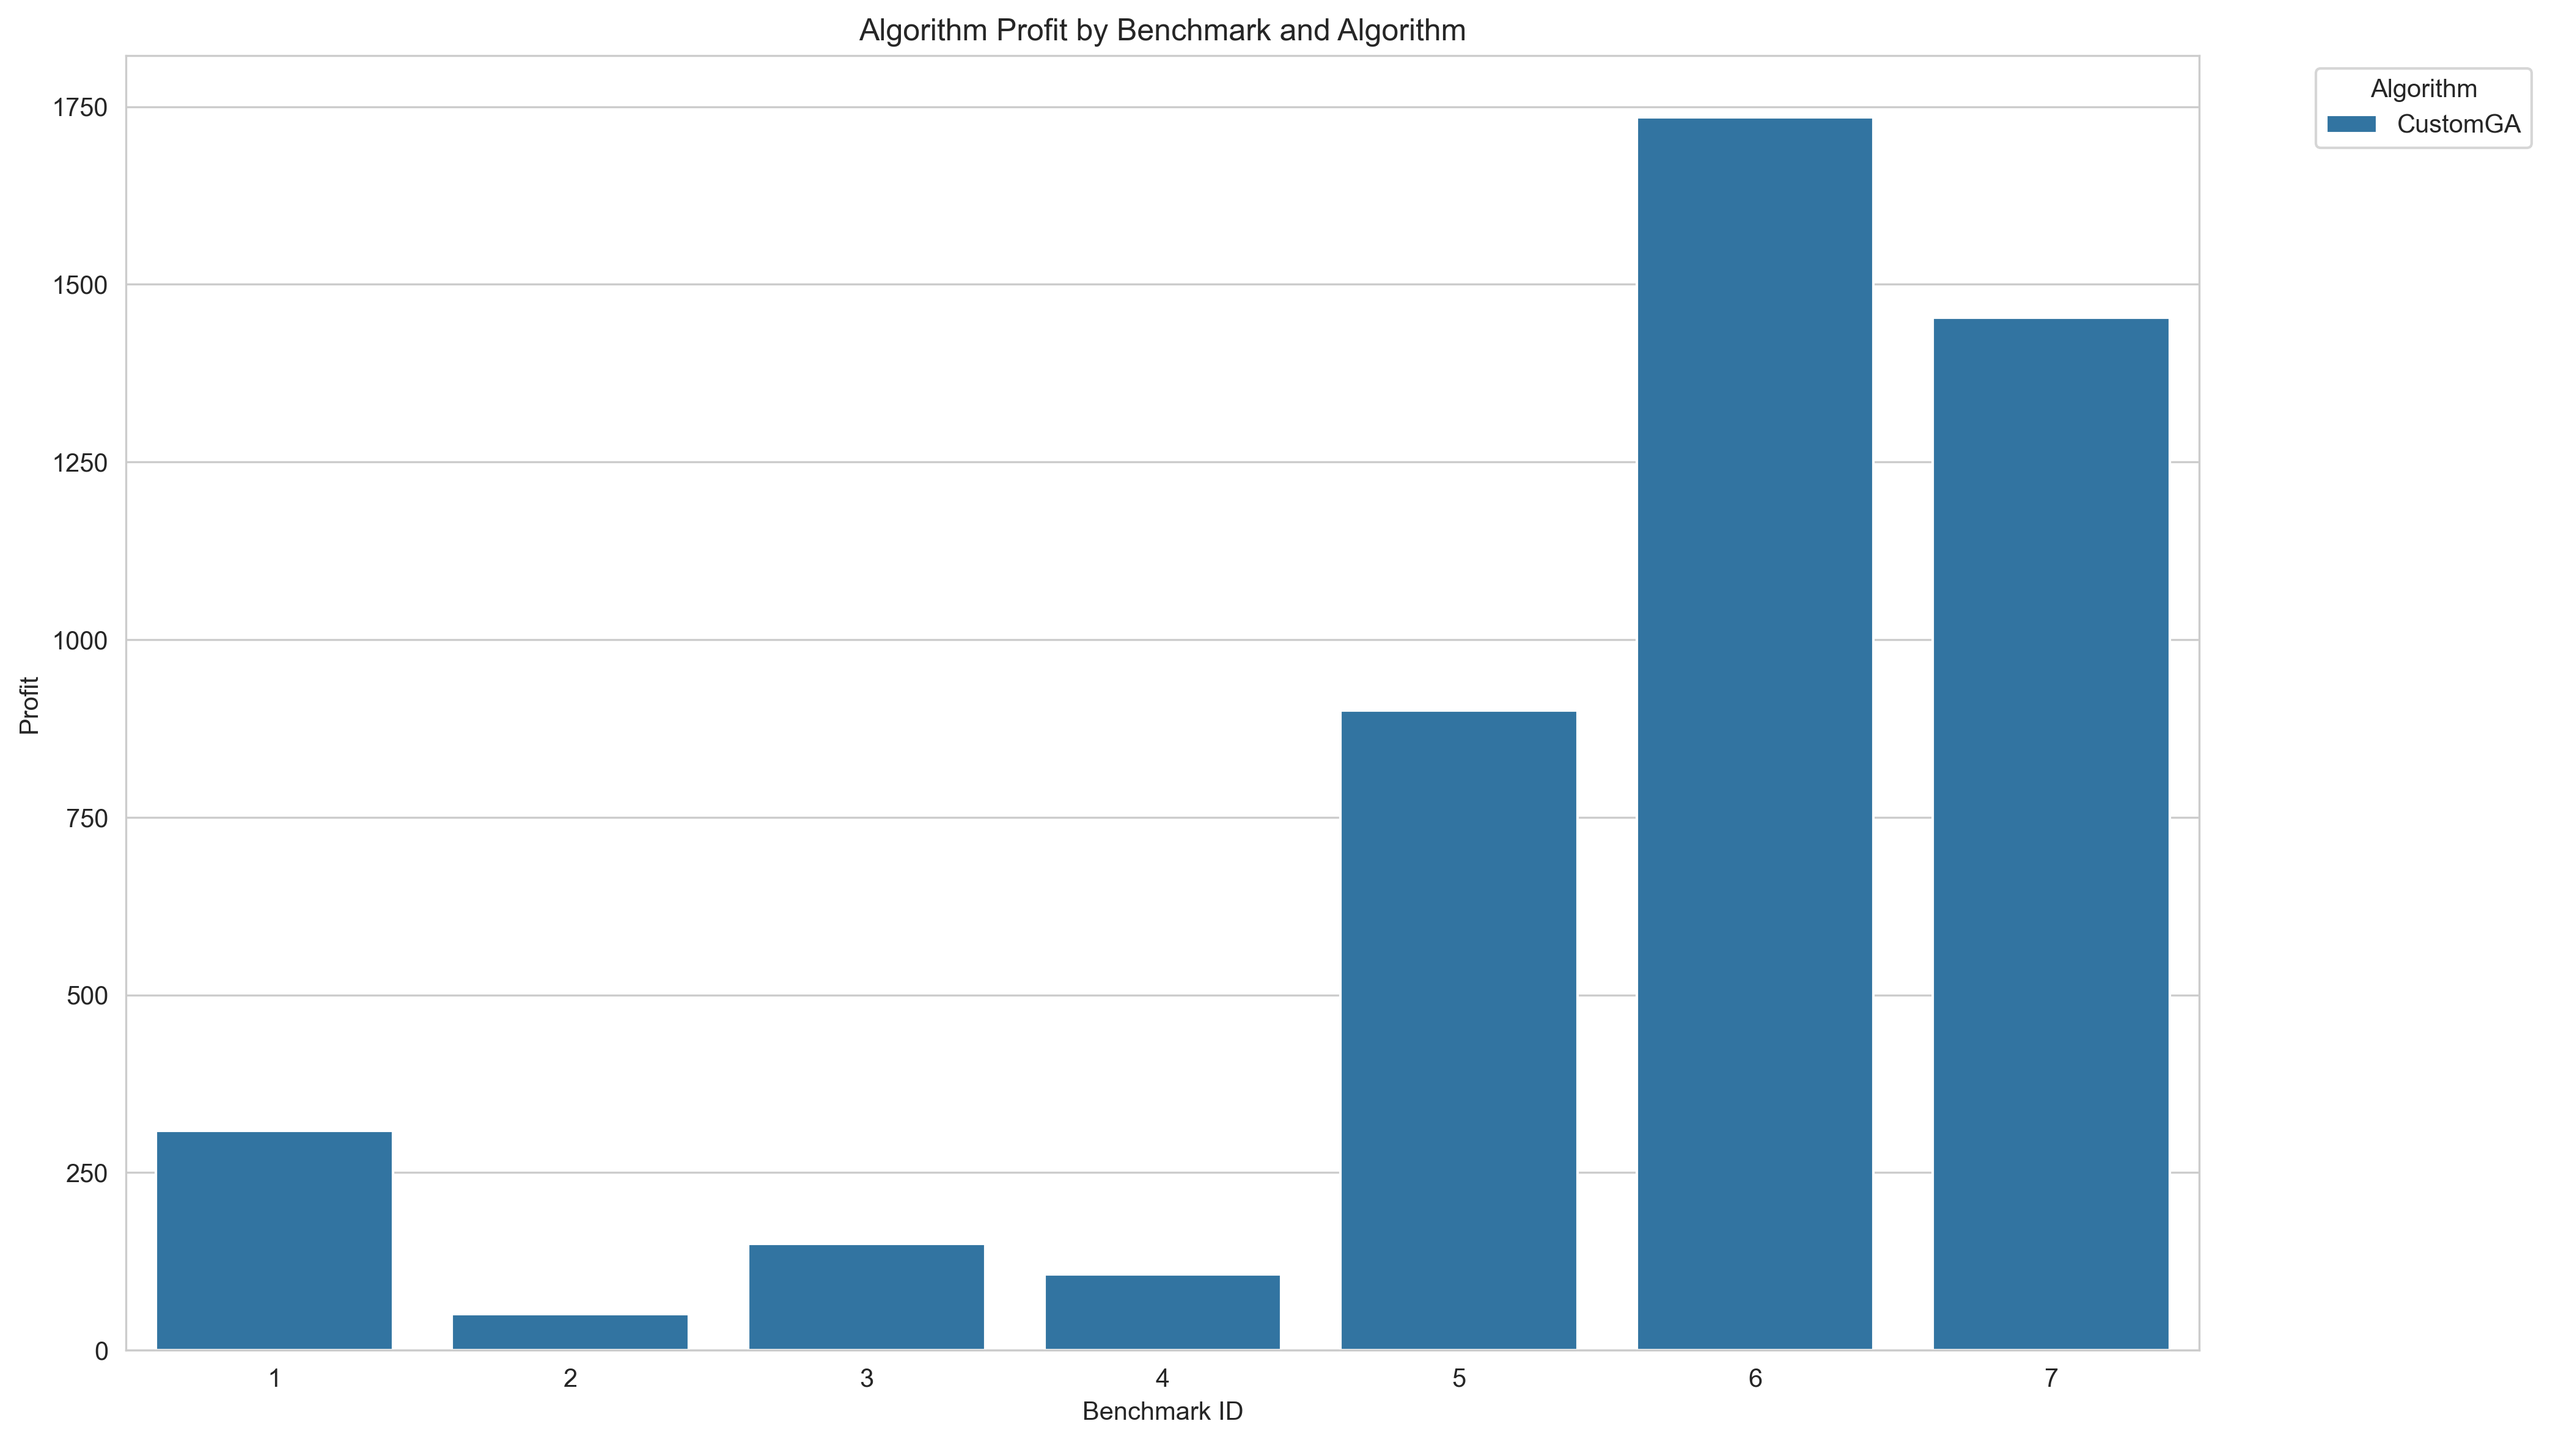
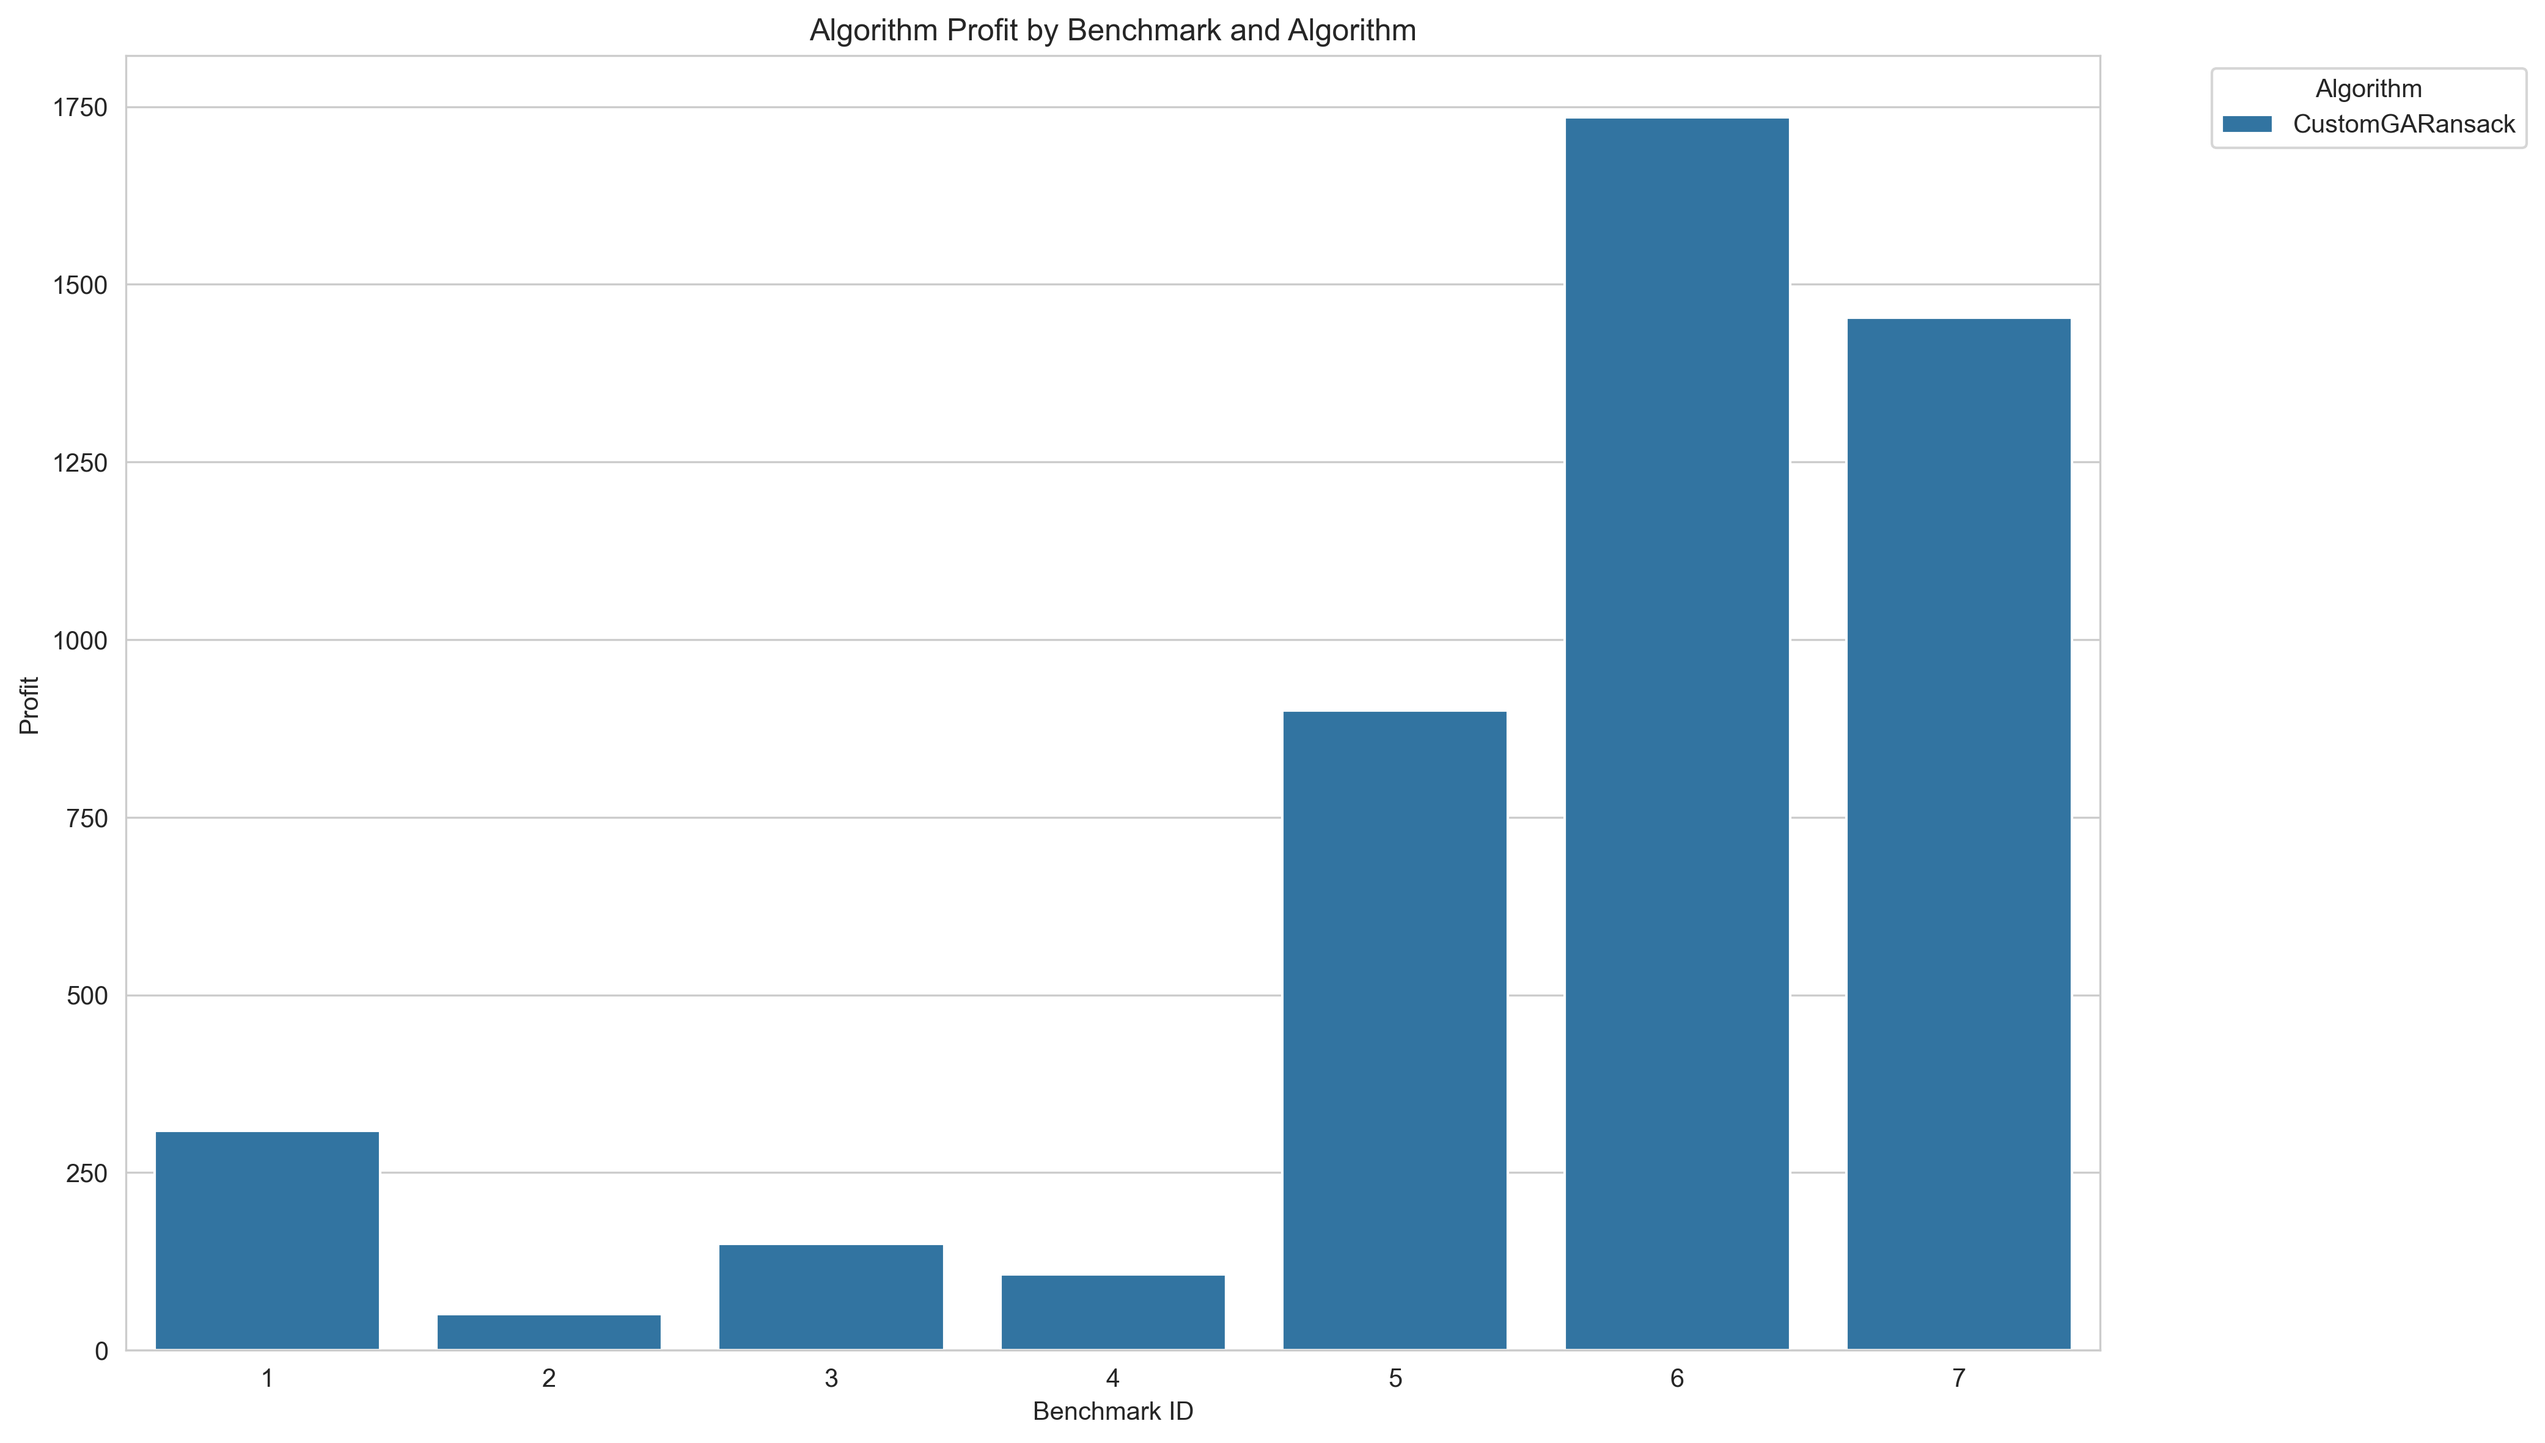
some refactoring

diff --git a/src/algorithms.py b/src/algorithms.py
@@ -1,5 +1,4 @@
 from functools import wraps
-from itertools import combinations
 import os
 from time import time
 import random
@@ -81,14 +80,13 @@ class GeneticAlgorithm(Algorithm):
         return population
 
     def fitness(self, individual: List[int]) -> float:
-        """Функция приспособленности - суммарная ценность предметов"""
+        """Функция приспособленности"""
         total_weight = self.get_total_weight(individual)
         total_value = self.get_total_value(individual)
 
         if total_weight <= self.capacity:
-            return total_value  # Допустимое решение
+            return total_value
         else:
-            # Штрафуем, но не обнуляем (линейный штраф)
             penalty = (total_weight - self.capacity) / self.capacity
             return max(0.0, total_value * (1 - penalty))
 
@@ -129,16 +127,12 @@ class GeneticAlgorithm(Algorithm):
     def evolve(self, population: List[List[int]]) -> List[List[int]]:
         """Создает новое поколение"""
         new_population = []
-
-        # Элитизм - сохраняем лучшую особь
         if self.elitism:
             best_individual = max(population, key=lambda ind: self.fitness(ind))
             new_population.append(best_individual.copy())
             start_index = 1
         else:
             start_index = 0
-
-        # Заполняем новую популяцию
         for i in range(start_index, self.population_size, 2):
             parent1 = self.tournament_selection(population)
             parent2 = self.tournament_selection(population)
@@ -158,7 +152,7 @@ class GeneticAlgorithm(Algorithm):
         population = self.initialize_population()
         best_fitness = -1
         no_improvement = 0
-        max_no_improvement = 15  # Остановка, если нет улучшений 15 поколений
+        max_no_improvement = 15
 
         for generation in range(self.generations):
             population = self.evolve(population)
@@ -172,7 +166,6 @@ class GeneticAlgorithm(Algorithm):
                 no_improvement += 1
                 if no_improvement >= max_no_improvement:
                     break
-        # Возвращаем лучшую особь после всех поколений
         best_solution = max(population, key=lambda ind: self.fitness(ind))
         return best_solution
 

diff --git a/src/benchmarks.py b/src/benchmarks.py
@@ -7,7 +7,7 @@ from src.algorithms import GeneticAlgorithm, read_knapsack_data, Algorithm, File
 class Benchmark:
     def __init__(self, algorithm_classes: Tuple[Type[Algorithm]], runs: int = 1):
         self.algorithm_classes = algorithm_classes
-        self.runs = runs  # Количество запусков для усреднения результатов
+        self.runs = runs
 
     def run_all_benchmarks(self):
         results = []
@@ -118,10 +118,9 @@ if __name__ == '__main__':
         'elitism': True
     }
 
-    class CustomGA(GeneticAlgorithm):
+    class CustomGARansack(GeneticAlgorithm):
         def __init__(self, data):
             super().__init__(data, **custom_ga_params)
 
-
-    benchmark = Benchmark(algorithm_classes=(CustomGA,), runs=1)
+    benchmark = Benchmark(algorithm_classes=(CustomGARansack,), runs=1)
     benchmark.run_all_benchmarks()
